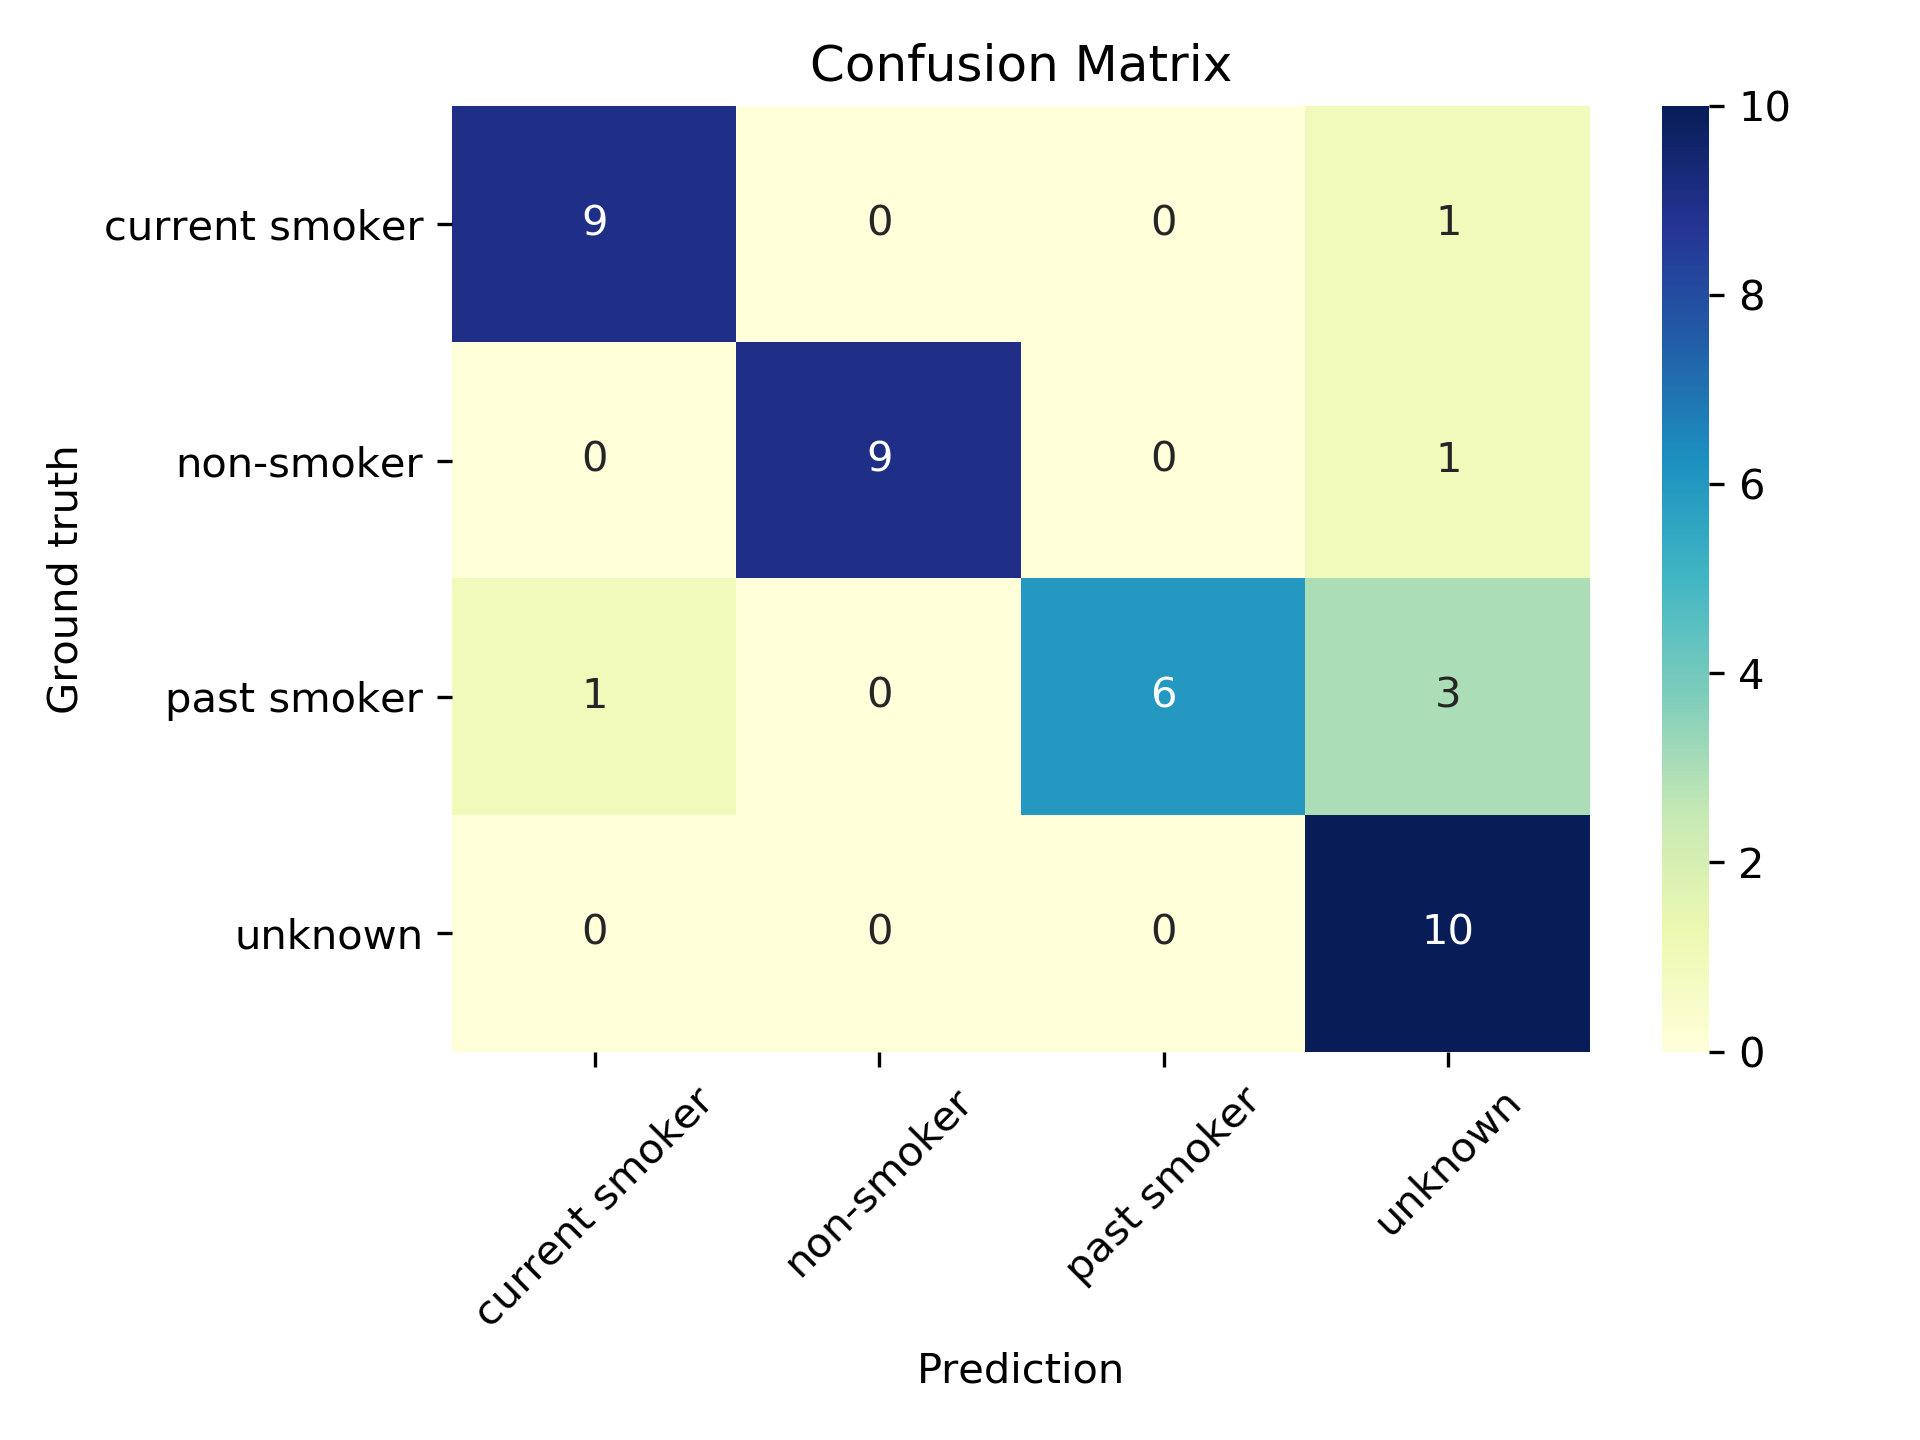
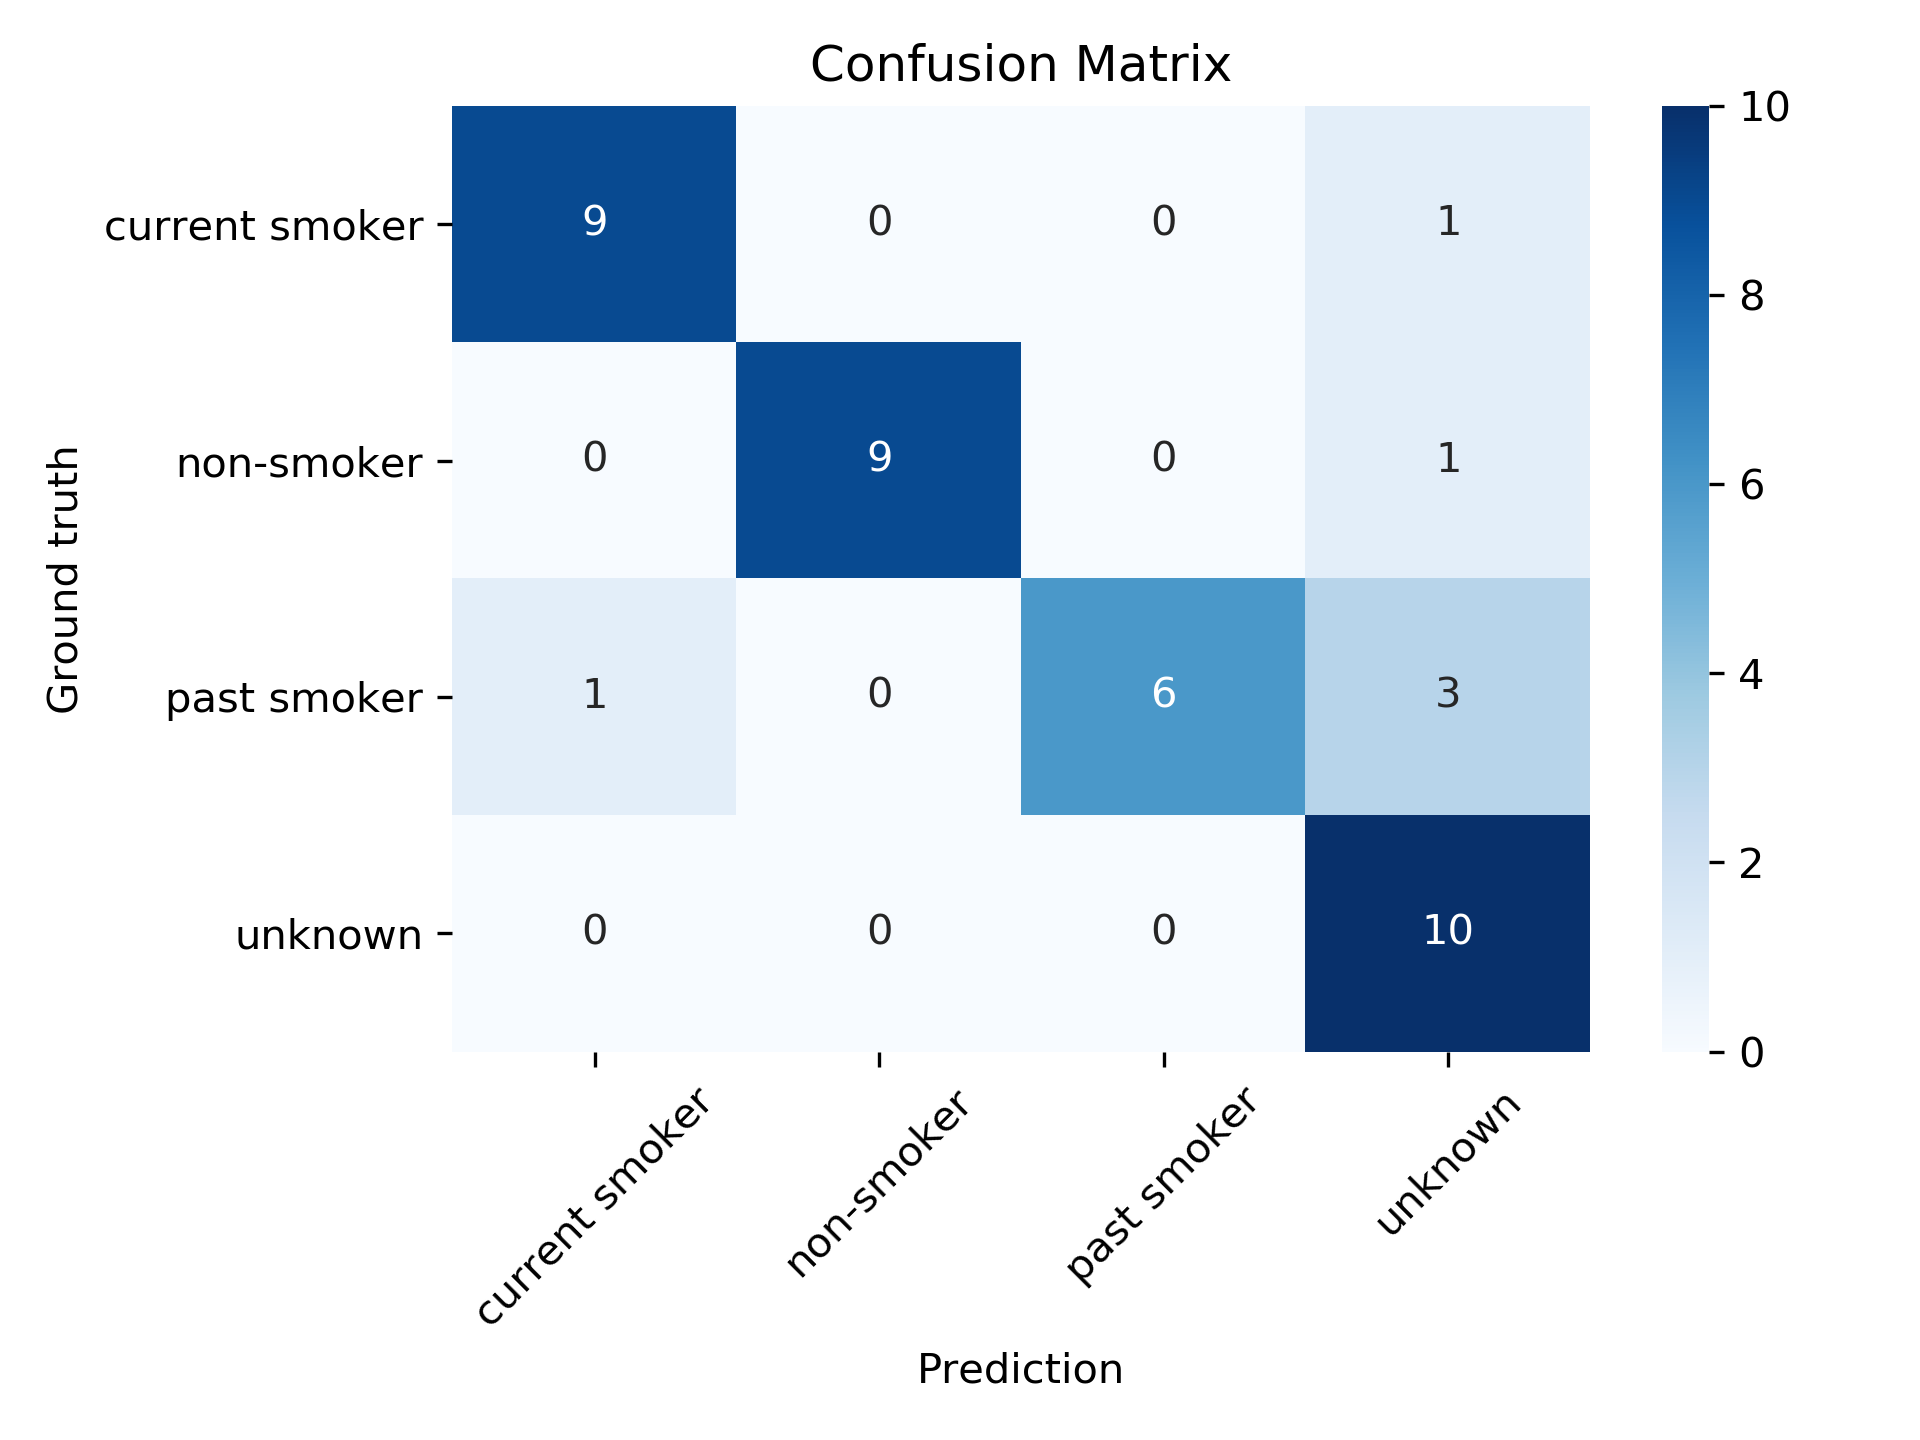
update cm.png

diff --git a/classifier.py b/classifier.py
@@ -155,7 +155,7 @@ def predict(data, smoke_kw, neg_kw, stop_kw):
 
 def plot_confusion_matrix(cm, labels):
     plt.title('Confusion Matrix')
-    ax = seaborn.heatmap(cm, annot=True, cmap="YlGnBu")
+    ax = seaborn.heatmap(cm, annot=True, cmap='Blues', fmt='d')
     ax.set_xticklabels(labels, rotation=45)
     ax.set_yticklabels(labels, rotation=0)
     ax.set(ylabel='Ground truth', xlabel='Prediction')
